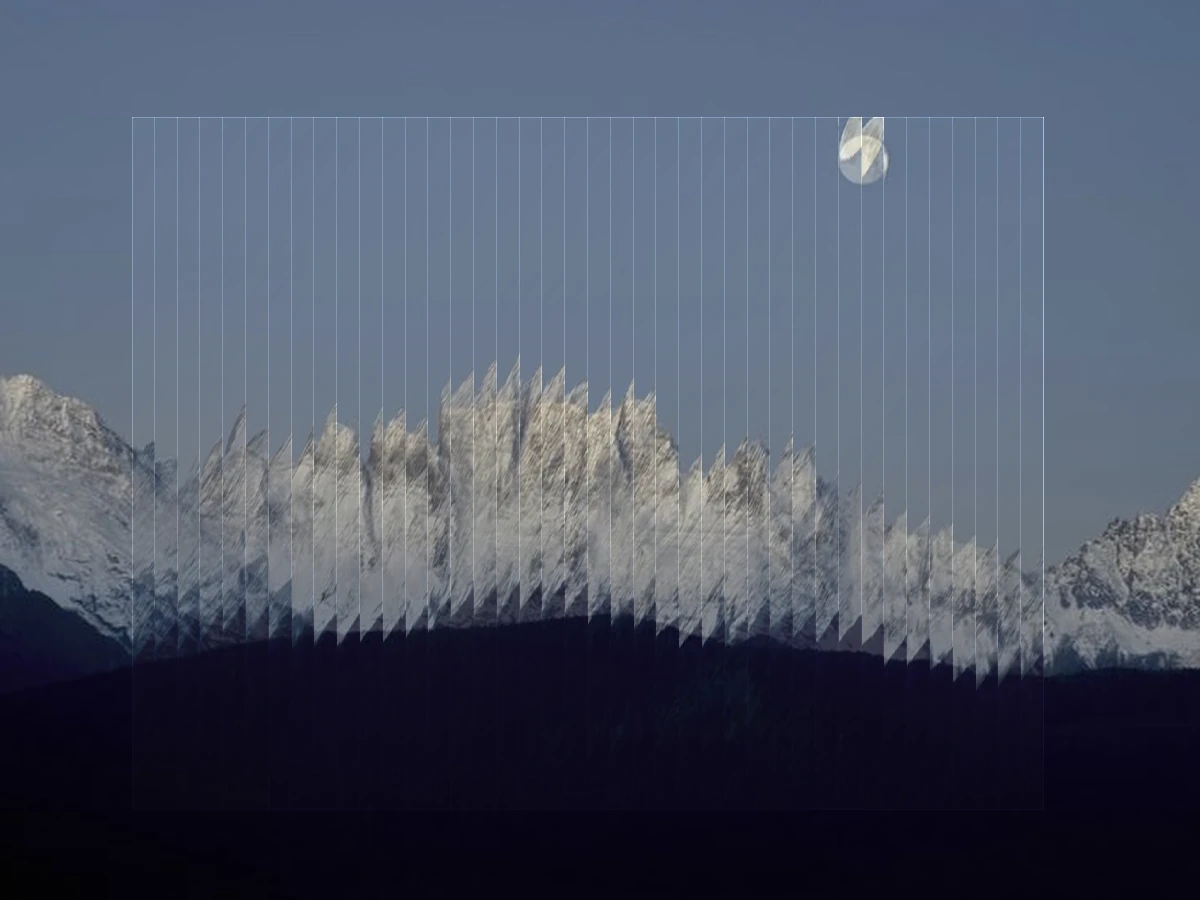
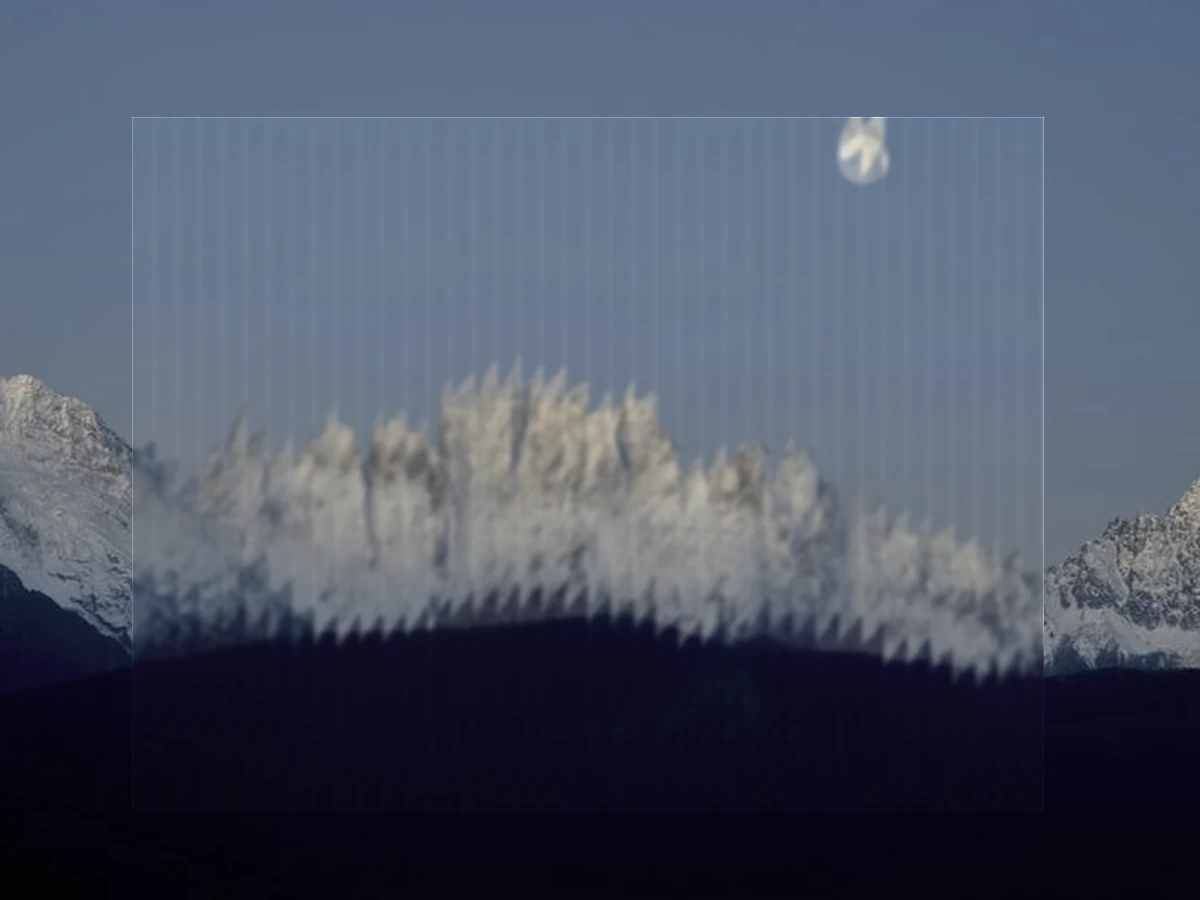
Glossy effect: soften with a gaussian blur for the dreamy shimmer of the reference field photo

diff --git a/scripts/glossy.py b/scripts/glossy.py
@@ -1,16 +1,15 @@
 import numpy as np
-from PIL import Image, ImageOps
+from PIL import Image, ImageOps, ImageFilter
 
-def glossy_columns(src, out, target=(1200,900), n=40, reg=(0.11,0.13,0.87,0.90), seed=7, alpha=0.62, fmt="WEBP", quality=90):
-    """Reusable 'sheared glass slats' effect matching the reference photo: a clean
-    semi-transparent glass pane over the image, sliced into vertical slats. Each
-    slat vertically SHEARS the scene (a linear ramp of vertical offset across the
-    slat width, tooth height ~ slat width) so horizontal edges become a fine ~45deg
-    sawtooth comb, not spikes. Bright glass seams between slats."""
+def glossy_columns(src, out, target=(1200,900), n=40, reg=(0.11,0.13,0.87,0.90), seed=7, alpha=0.62, blur=2.5, fmt="WEBP", quality=90):
+    """Reusable 'sheared glass slats' effect: a semi-transparent glass pane sliced
+    into vertical slats, each vertically SHEARING the scene (offset ramps across the
+    slat width, tooth height ~ slat width) so edges become a fine ~45deg sawtooth
+    comb (not spikes). A soft Gaussian blur gives the dreamy shimmer of the ref."""
     im = ImageOps.fit(Image.open(src).convert("RGB"), target, method=Image.LANCZOS, centering=(0.5,0.5))
     a = np.asarray(im).astype(np.float32); W,H = im.size
     x0,y0,x1,y1 = int(reg[0]*W),int(reg[1]*H),int(reg[2]*W),int(reg[3]*H)
-    rw,rh = x1-x0,y1-y0; cy = rh/2; sw = rw/n
+    rw,rh = x1-x0,y1-y0; sw = rw/n
     R = a[y0:y1,x0:x1].copy(); out_a = a.copy()
     rng = np.random.default_rng(seed); yy = np.arange(rh).astype(np.float32)
     for i in range(n):
@@ -18,14 +17,14 @@ def glossy_columns(src, out, target=(1200,900), n=40, reg=(0.11,0.13,0.87,0.90),
         if w<=0: continue
         base=(0.02*rh)+(0.02*rh)*np.sin(2*np.pi*(i/n)*3+0.3)+(0.01*rh)*(rng.random()-0.5)
         ramp=w*(1.4+0.4*(rng.random()-0.5))
-        xf=(np.arange(w)+0.5)/w-0.5
-        off=base+ramp*xf
-        src_y=yy[:,None]+off[None,:]
-        syi=np.clip(np.round(src_y).astype(int),0,rh-1); cols=np.arange(xa,xb)
-        transformed=R[syi,cols[None,:],:]; orig=R[:,xa:xb,:]
-        bl=orig*(1-alpha)+transformed*alpha
+        xf=(np.arange(w)+0.5)/w-0.5; off=base+ramp*xf
+        syi=np.clip(np.round(yy[:,None]+off[None,:]).astype(int),0,rh-1); cols=np.arange(xa,xb)
+        bl=R[:,xa:xb,:]*(1-alpha)+R[syi,cols[None,:],:]*alpha
         bl[:,-1,:]=np.clip(bl[:,-1,:]*1.24,0,255)
         out_a[y0:y1,xa+x0:xb+x0,:]=bl
+    if blur>0:
+        paneimg=Image.fromarray(np.clip(out_a[y0:y1,x0:x1,:],0,255).astype("uint8")).filter(ImageFilter.GaussianBlur(blur))
+        out_a[y0:y1,x0:x1,:]=np.asarray(paneimg).astype(np.float32)
     pane=out_a[y0:y1,x0:x1,:]; out_a[y0:y1,x0:x1,:]=np.clip(pane*(1.0+0.03*np.linspace(1,-1,rh)[:,None,None])+4,0,255)
     for xe in (x0,x1-1): out_a[y0:y1,xe,:]=np.clip(out_a[y0:y1,xe,:]*1.3,0,255)
     for ye in (y0,y1-1): out_a[ye,x0:x1,:]=np.clip(out_a[ye,x0:x1,:]*1.3,0,255)
